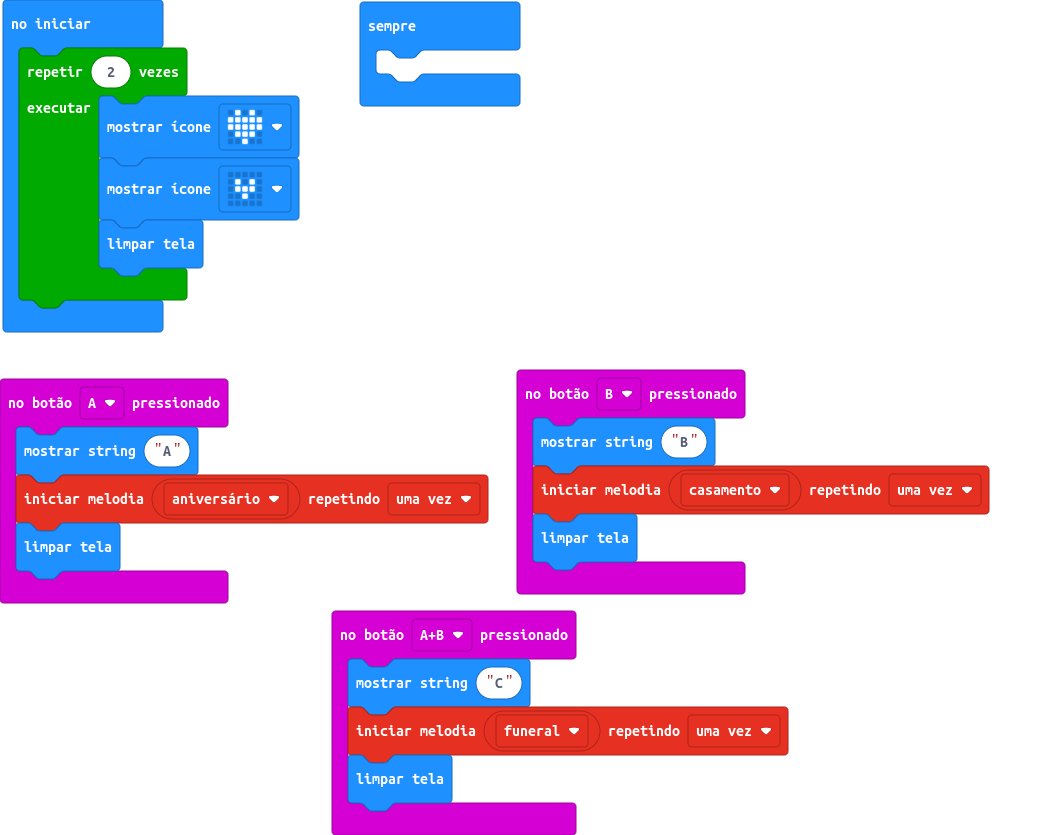
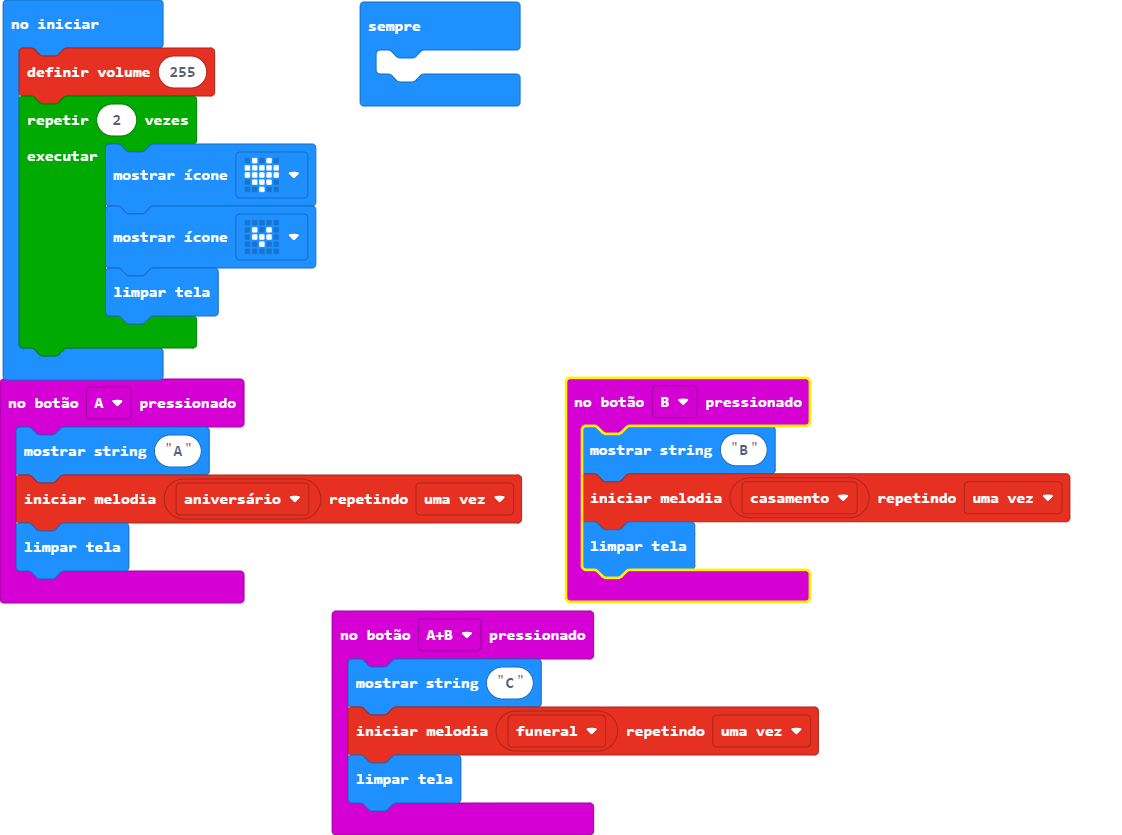
Atualizar 'main.blocks, main.ts'

diff --git a/main.ts b/main.ts
@@ -13,6 +13,7 @@ input.onButtonPressed(Button.B, function () {
     music.startMelody(music.builtInMelody(Melodies.Wedding), MelodyOptions.Once)
     basic.clearScreen()
 })
+music.setVolume(255)
 for (let index = 0; index < 2; index++) {
     basic.showIcon(IconNames.Heart)
     basic.showIcon(IconNames.SmallHeart)
